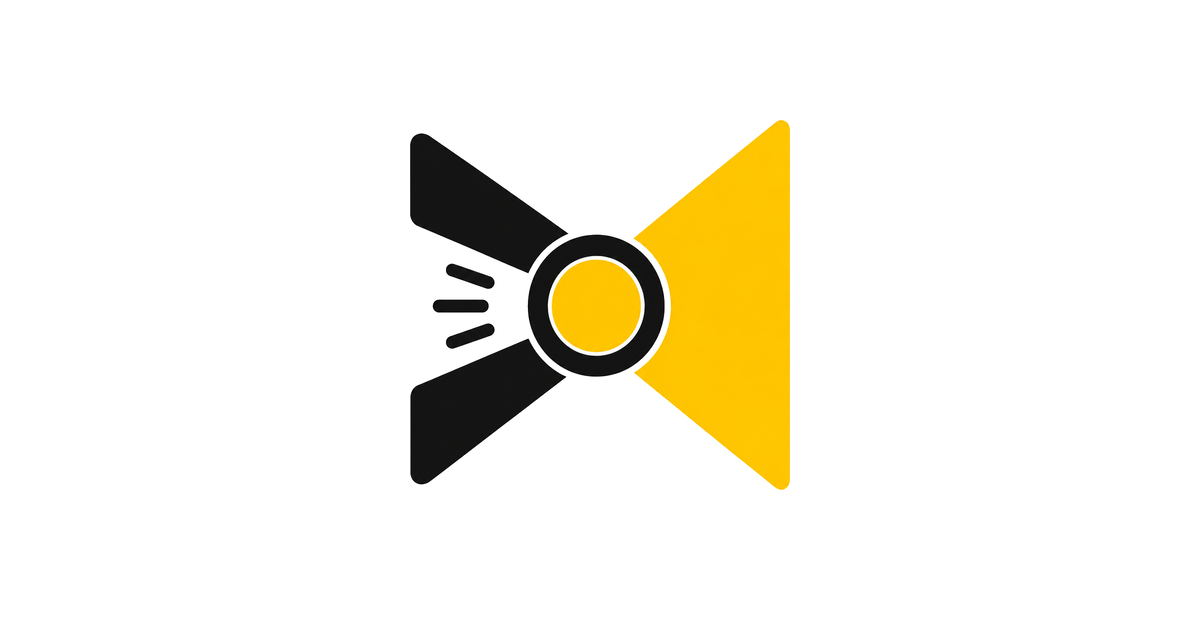
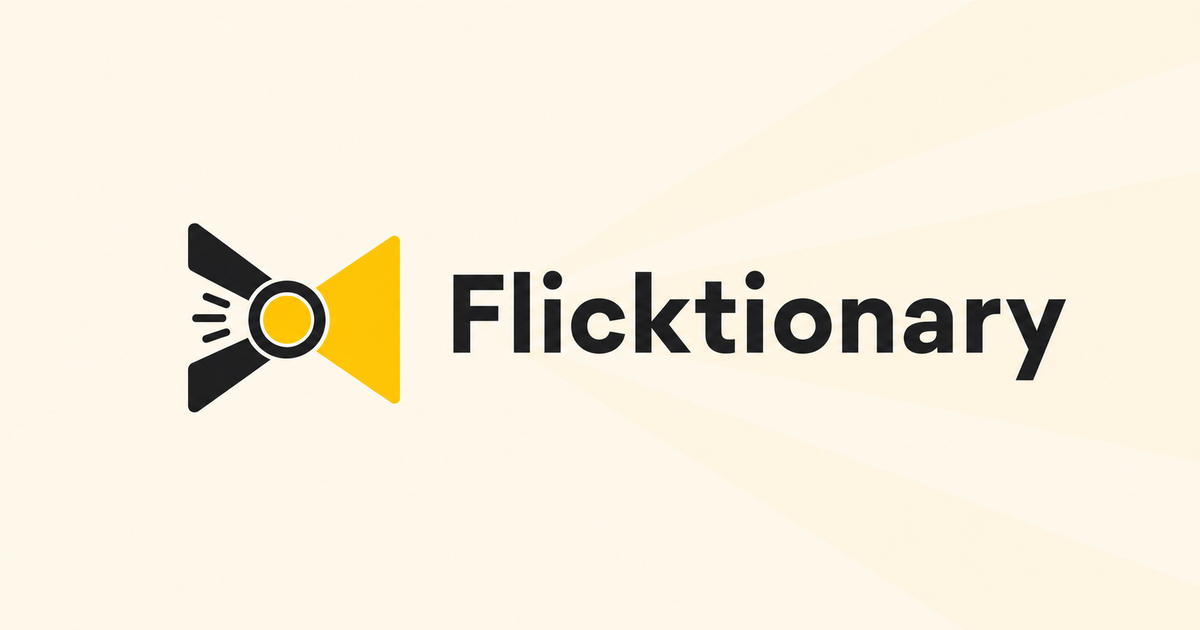
feat(web,root,packages): create basic image assets

diff --git a/apps/web/index.html b/apps/web/index.html
@@ -15,7 +15,23 @@
       name="description"
       content="A language-learning companion for movie subtitles and pasted text. Highlight what you don't understand, explore each chunk in context, and practice through short LLM-generated readings."
     />
-    <meta property="og:image" content="/opengraph-image.png" />
+    <meta property="og:type" content="website" />
+    <meta property="og:url" content="https://app.flicktionary.app/" />
+    <meta property="og:title" content="Flicktionary — learn languages from movies and texts" />
+    <meta
+      property="og:description"
+      content="A language-learning companion for movie subtitles and pasted text. Highlight what you don't understand, explore each chunk in context, and practice through short LLM-generated readings."
+    />
+    <meta property="og:image" content="https://app.flicktionary.app/opengraph-image.png" />
+    <meta property="og:image:width" content="1200" />
+    <meta property="og:image:height" content="630" />
+    <meta name="twitter:card" content="summary_large_image" />
+    <meta name="twitter:title" content="Flicktionary — learn languages from movies and texts" />
+    <meta
+      name="twitter:description"
+      content="A language-learning companion for movie subtitles and pasted text. Highlight what you don't understand, explore each chunk in context, and practice through short LLM-generated readings."
+    />
+    <meta name="twitter:image" content="https://app.flicktionary.app/opengraph-image.png" />
     <meta name="apple-itunes-app" content="app-id=6741498422" />
 
     <link rel="preconnect" href="https://fonts.googleapis.com" />

diff --git a/packages/extension/src/ui/components/FtueUi.tsx b/packages/extension/src/ui/components/FtueUi.tsx
@@ -42,7 +42,7 @@ const WelcomeMessage: React.FC<{ className: string }> = ({ className }) => {
         <Typography variant='h6'>
           <Trans>
             Scroll down for a quick intro, or check out the{' '}
-            <Link color='primary' target='_blank' rel='noreferrer' href={'https://www.flicktionary.app'}>
+            <Link color='primary' target='_blank' rel='noreferrer' href={'https://app.flicktionary.app'}>
               user guide
             </Link>
             .

diff --git a/packages/extension/src/ui/components/PopupUi.tsx b/packages/extension/src/ui/components/PopupUi.tsx
@@ -65,7 +65,7 @@ export function PopupUi({ commands }: Props) {
   }, [])
 
   const handleOpenUserGuide = useCallback(() => {
-    browser.tabs.create({ active: true, url: 'https://www.flicktionary.app' })
+    browser.tabs.create({ active: true, url: 'https://app.flicktionary.app' })
   }, [])
 
   const { requestingActiveTabPermission, tabRequestingActiveTabPermission } = useRequestingActiveTabPermission()
